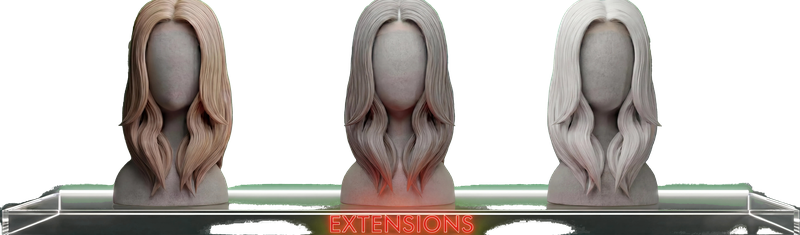
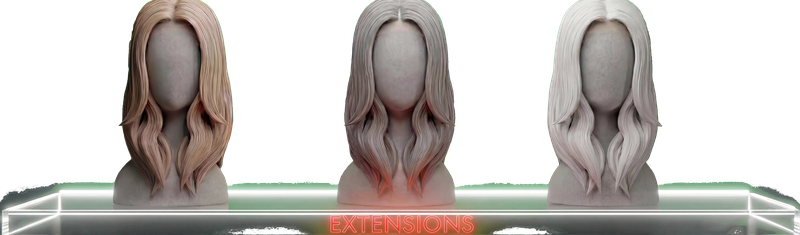
Lobby shelves: rebake HD, transparent, and custom units
New Supabase sources for all three shelf PNGs (800×235, green-screen
key with mannequin/neon protect). LOBBY_SHELF_ASSET_VERSION 5Cof6W3Y-v1.

Changed region(s): [[0.0, 0.7149, 1.0, 1.0], [0.4375, 0.6553, 0.4688, 0.7149]]

diff --git a/src/constants/lobbySceneAssets.ts b/src/constants/lobbySceneAssets.ts
@@ -28,13 +28,13 @@ export const LOBBY_ROSE_BACKGROUND_SRC_REMOTE =
 export const LOBBY_ROSE_BACKGROUND_SRC = `/assets/landing-background.png?v=${LOBBY_BACKGROUND_ASSET_VERSION}`;
 
 /** Bump when re-baking shelf PNGs (`npm run lobby:bake-shelves`). */
-export const LOBBY_SHELF_ASSET_VERSION = '7iUsTnn1-v1';
+export const LOBBY_SHELF_ASSET_VERSION = '5Cof6W3Y-v1';
 
 export const LOBBY_SHELF_HD_SRC_REMOTE =
-  'https://hyycomvcaqxxvyrfupes.supabase.co/storage/v1/object/public/live-preview/LP%20Images/RQY7MNHaS7mk5m9RKKMd__Qtm01P5p.jpeg';
+  'https://hyycomvcaqxxvyrfupes.supabase.co/storage/v1/object/public/live-preview/LP%20Images/5Cof6W3Y0p6Eyq8ew7Sil_dzSVHBRK.jpeg';
 
 export const LOBBY_SHELF_TRANSPARENT_SRC_REMOTE =
-  'https://hyycomvcaqxxvyrfupes.supabase.co/storage/v1/object/public/live-preview/LP%20Images/2fkXzNmBPwDypFe2xv4P__QY7xpaxh.jpeg';
+  'https://hyycomvcaqxxvyrfupes.supabase.co/storage/v1/object/public/live-preview/LP%20Images/7h5bbuiitNAnalQhkOszS_pP56MlDZ.jpeg';
 
 export const LOBBY_SHELF_CUSTOM_SRC_REMOTE =
   'https://hyycomvcaqxxvyrfupes.supabase.co/storage/v1/object/public/live-preview/LP%20Images/7iUsTnn1PQRK9Io3291KW_pHVg5Q26.jpeg';
